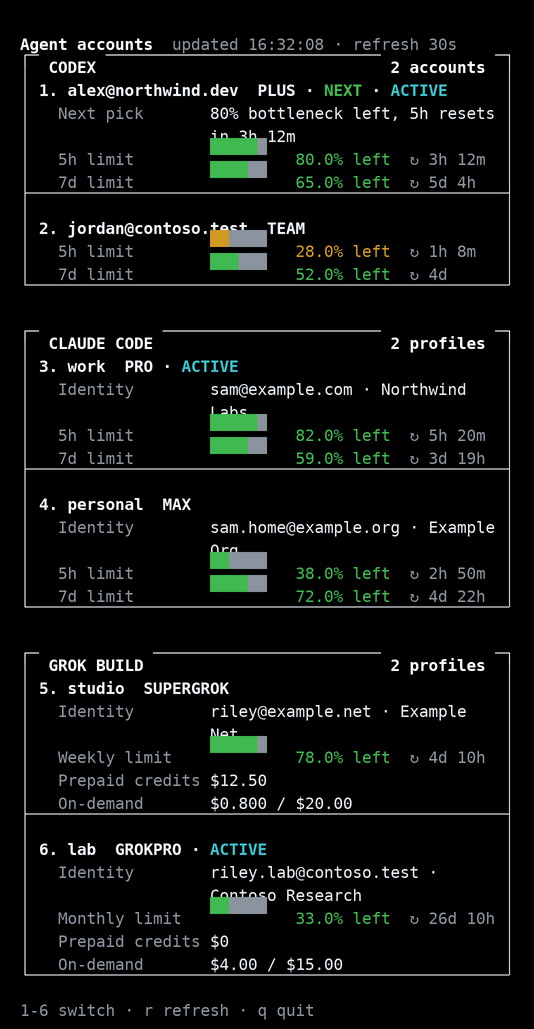
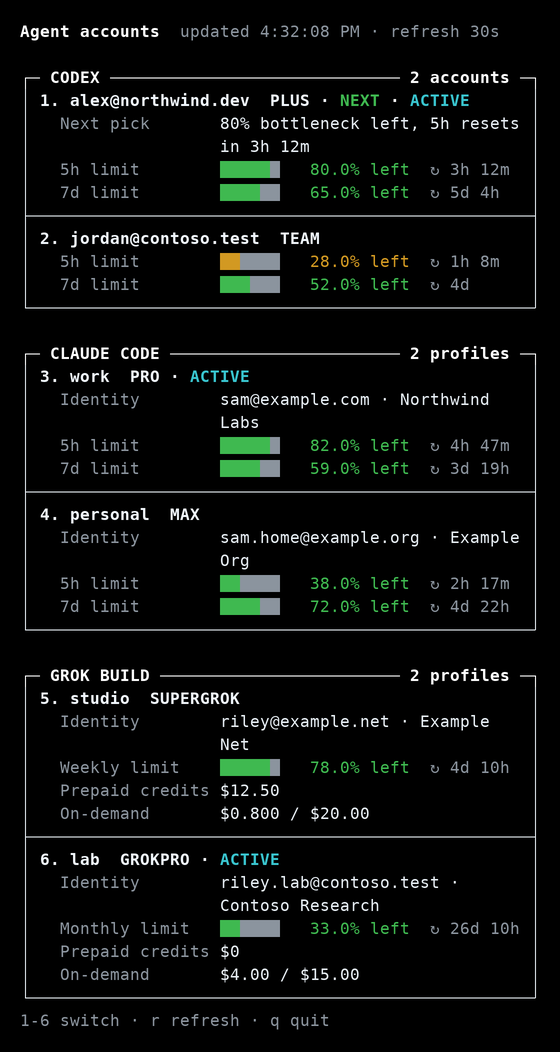
Render screenshots on a fixed terminal grid

Changed region(s): [[0.03, 0.0, 0.9588, 0.9951], [0.5393, 0.4354, 0.779, 0.4665], [0.2996, 0.4665, 0.3596, 0.4976]]

diff --git a/dist/display.js b/dist/display.js
@@ -610,7 +610,10 @@ export function composeDashboardFrame(body, chrome, size) {
     const message = chrome.message ? `${chrome.message}  ·  ${help}` : help;
     const footer = `${DIM}${message}${RESET}`;
     const frame = [padVisible(header, width)];
-    const bodyBudget = Math.max(0, rows - 2);
+    const hasHeaderSpacer = rows >= 3;
+    if (hasHeaderSpacer)
+        frame.push(" ".repeat(width));
+    const bodyBudget = Math.max(0, rows - (hasHeaderSpacer ? 3 : 2));
     const clipped = clipBody(body, bodyBudget, width);
     for (const line of clipped)
         frame.push(padVisible(line, width));

diff --git a/src/display.ts b/src/display.ts
@@ -661,7 +661,9 @@ export function composeDashboardFrame(
   const footer = `${DIM}${message}${RESET}`;
 
   const frame: string[] = [padVisible(header, width)];
-  const bodyBudget = Math.max(0, rows - 2);
+  const hasHeaderSpacer = rows >= 3;
+  if (hasHeaderSpacer) frame.push(" ".repeat(width));
+  const bodyBudget = Math.max(0, rows - (hasHeaderSpacer ? 3 : 2));
   const clipped = clipBody(body, bodyBudget, width);
   for (const line of clipped) frame.push(padVisible(line, width));
   frame.push(padVisible(footer, width));

diff --git a/scripts/ansi-to-png.py b/scripts/ansi-to-png.py
@@ -18,6 +18,12 @@ FONT_PATH = "/usr/share/fonts/truetype/dejavu/DejaVuSansMono.ttf"
 BOLD_PATH = "/usr/share/fonts/truetype/dejavu/DejaVuSansMono-Bold.ttf"
 FONT_SIZE = 16
 SCALE = 2
+# Deliberately fixed terminal geometry.  Keeping these dimensions integral at
+# both render and output scale prevents columns from alternating between pixel
+# widths after downsampling.
+CELL_WIDTH = 10
+CELL_HEIGHT = 23
+PADDING = 20
 
 PALETTE = {
     "bg": (0, 0, 0, 255),
@@ -112,11 +118,30 @@ def mix(fg: tuple[int, int, int, int], bg: tuple[int, int, int, int], t: float) 
     return tuple(int(f * t + b * (1 - t)) for f, b in zip(fg[:3], bg[:3])) + (255,)
 
 
-def measure_font(font: ImageFont.FreeTypeFont) -> tuple[int, int, int, int]:
-    ascent, descent = font.getmetrics()
-    cell_w = max(1, round(font.getlength("M")))
-    cell_h = ascent + descent + 4 * SCALE
-    return cell_w, cell_h, ascent, descent
+def validate_glyphs(
+    chars: set[str],
+    font: ImageFont.FreeTypeFont,
+    bold_font: ImageFont.FreeTypeFont,
+    cell_w: int,
+    cell_h: int,
+    baseline: int,
+) -> None:
+    """Fail rather than emit a screenshot whose text escapes its cell grid."""
+    for face_name, face in (("regular", font), ("bold", bold_font)):
+        for ch in chars:
+            if ch == " " or ch in BLOCK_DENSITY or ch in BOX_KIND:
+                continue
+            left, top, right, bottom = face.getbbox(ch, anchor="ls")
+            if left < 0 or right > cell_w:
+                raise ValueError(
+                    f"{face_name} glyph {ch!r} exceeds the {cell_w}px cell width: "
+                    f"{(left, top, right, bottom)}"
+                )
+            if baseline + top < 0 or baseline + bottom > cell_h:
+                raise ValueError(
+                    f"{face_name} glyph {ch!r} exceeds the {cell_h}px row height: "
+                    f"{(left, top, right, bottom)} at baseline {baseline}"
+                )
 
 
 def draw_box(
@@ -163,16 +188,31 @@ def draw_box(
 def render_frame(lines: list[str], dest: Path) -> None:
     font = ImageFont.truetype(FONT_PATH, FONT_SIZE * SCALE)
     bold_font = ImageFont.truetype(BOLD_PATH, FONT_SIZE * SCALE)
-    cell_w, cell_h, ascent, _descent = measure_font(font)
-    cols = max((len(parse_ansi(line)) for line in lines), default=1)
+    cell_w = CELL_WIDTH * SCALE
+    cell_h = CELL_HEIGHT * SCALE
+    ascent, descent = font.getmetrics()
+    leading = cell_h - ascent - descent
+    if leading < 0:
+        raise ValueError("font metrics exceed the fixed terminal row height")
+    baseline = leading // 2 + ascent
+    parsed_lines = [parse_ansi(line) for line in lines]
+    validate_glyphs(
+        {ch for line in parsed_lines for ch, _style in line},
+        font,
+        bold_font,
+        cell_w,
+        cell_h,
+        baseline,
+    )
+    cols = max((len(line) for line in parsed_lines), default=1)
     rows = max(len(lines), 1)
-    pad = 20 * SCALE
+    pad = PADDING * SCALE
     im = Image.new("RGBA", (cols * cell_w + pad * 2, rows * cell_h + pad * 2), PALETTE["bg"])
     draw = ImageDraw.Draw(im)
     inset = 3 * SCALE
     stroke = max(1, SCALE)
-    for row, line in enumerate(lines):
-        for col, (ch, style) in enumerate(parse_ansi(line)):
+    for row, line in enumerate(parsed_lines):
+        for col, (ch, style) in enumerate(line):
             x = pad + col * cell_w
             y = pad + row * cell_h
             color = cell_color(style)
@@ -191,8 +231,9 @@ def render_frame(lines: list[str], dest: Path) -> None:
             if ch == " ":
                 continue
             face = bold_font if style["bold"] else font
-            # Alphabetic baseline, shared by every glyph in the row.
-            draw.text((x, y + ascent), ch, font=face, fill=color, anchor="la")
+            # Pillow's `s` anchor is the baseline.  `a` means ascender and was
+            # the source of text dropping into the following terminal row.
+            draw.text((x, y + baseline), ch, font=face, fill=color, anchor="ls")
     if SCALE > 1:
         im = im.resize((im.width // SCALE, im.height // SCALE), Image.Resampling.LANCZOS)
     im.save(dest)
